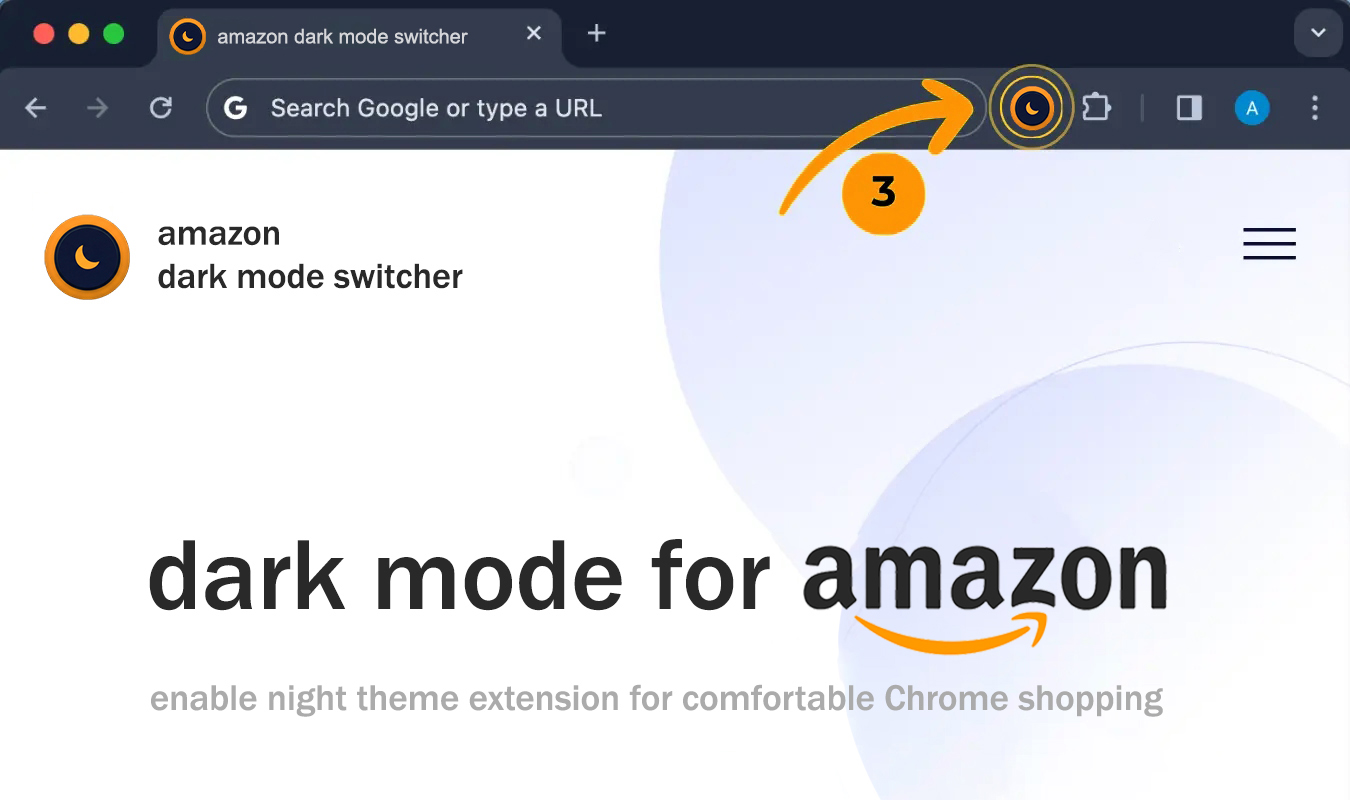
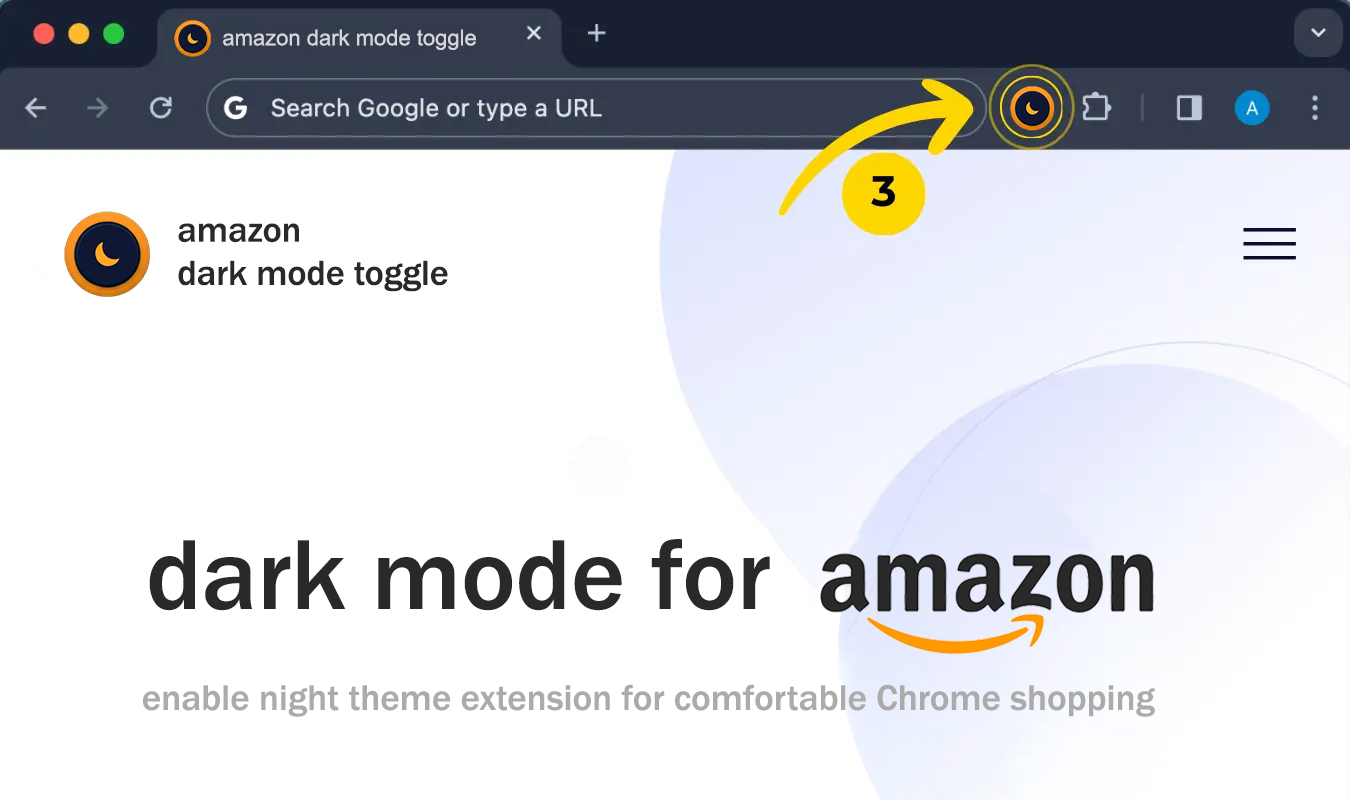
ууу

diff --git a/index.html b/index.html
@@ -3,7 +3,7 @@
 <head>
   <meta charset="UTF-8">
   <meta name="viewport" content="width=device-width, initial-scale=1.0">
-  <title>Amazon Dark Mode Switcher</title>
+  <title>amazon dark mode toggle</title>
   <meta name="description" content="Comfortable dark mode for Amazon with one-click toggle.">
   <link rel="preconnect" href="https://fonts.googleapis.com">
   <link rel="preconnect" href="https://fonts.gstatic.com" crossorigin>
@@ -230,14 +230,14 @@
     <div class="header-inner">
       <a href="welcome.html" class="logo">
         <img src="images/logo.png" alt="Logo" class="logo-icon">
-        <span class="logo-text" data-config-text="logoText">amazon dark mode switcher</span>
+        <span class="logo-text" data-config-text="logoText">amazon dark mode toggle</span>
       </a>
       <nav class="nav-links">
         <div class="nav-menu">
           <a href="index.html" class="nav-link">Home</a>
           <a href="contact.html" class="nav-link">Contact us</a>
         </div>
-        <a href="https://chromewebstore.google.com/detail/amazon-dark-mode-switcher/YOUR_EXTENSION_ID" class="btn-install" target="_blank" data-config-href="installUrl">
+        <a href="https://chromewebstore.google.com/detail/amazon-dark-mode-toggle/YOUR_EXTENSION_ID" class="btn-install" target="_blank" data-config-href="installUrl">
           <svg viewBox="0 0 24 24" fill="none" stroke="currentColor" stroke-width="2" stroke-linecap="round" stroke-linejoin="round">
             <circle cx="12" cy="12" r="10"/>
             <polyline points="8 12 12 16 16 12"/>
@@ -250,10 +250,10 @@
   </header>
 
   <main class="main">
-    <h1 class="hero-title" data-config-text="extensionName">amazon dark mode switcher</h1>
+    <h1 class="hero-title" data-config-text="extensionName">amazon dark mode toggle</h1>
     <p class="hero-subtitle">Comfortable dark mode for Amazon with one-click toggle.</p>
     <p class="hero-note">No internet required.</p>
-    <a href="https://chromewebstore.google.com/detail/amazon-dark-mode-switcher/YOUR_EXTENSION_ID" class="btn-main" target="_blank" data-config-href="installUrl">
+    <a href="https://chromewebstore.google.com/detail/amazon-dark-mode-toggle/YOUR_EXTENSION_ID" class="btn-main" target="_blank" data-config-href="installUrl">
       <svg viewBox="0 0 24 24" fill="none" stroke="currentColor" stroke-width="2" stroke-linecap="round" stroke-linejoin="round">
         <circle cx="12" cy="12" r="10"/>
         <polyline points="8 12 12 16 16 12"/>

diff --git a/welcome.html b/welcome.html
@@ -3,7 +3,7 @@
 <head>
   <meta charset="UTF-8">
   <meta name="viewport" content="width=device-width, initial-scale=1.0">
-  <title>Welcome | Amazon Dark Mode Switcher</title>
+  <title>Welcome | amazon dark mode toggle</title>
   <link rel="preconnect" href="https://fonts.googleapis.com">
   <link rel="preconnect" href="https://fonts.gstatic.com" crossorigin>
   <link href="https://fonts.googleapis.com/css2?family=Inter:wght@400;500;600;700&display=swap" rel="stylesheet">
@@ -337,7 +337,7 @@
     <div class="header-inner">
       <a href="welcome.html" class="logo">
         <img src="images/logo.png" alt="Logo" class="logo-icon">
-        <span class="logo-text" data-config-text="logoText">amazon dark mode switcher</span>
+        <span class="logo-text" data-config-text="logoText">amazon dark mode toggle</span>
       </a>
       <nav class="nav-links">
         <div class="nav-menu">
@@ -358,7 +358,7 @@
   <main class="main">
     <!-- Welcome Section -->
     <section class="welcome-section">
-      <h1 class="welcome-title">Thanks for installing amazon dark mode switcher!</h1>
+      <h1 class="welcome-title">Thanks for installing amazon dark mode toggle!</h1>
       <p class="welcome-subtitle">To keep it always within reach, just pin it using the steps below.</p>
     </section>
 
@@ -368,7 +368,7 @@
       <div class="step">
         <div class="step-header">
           <div class="step-number">1</div>
-          <p class="step-text">Pin it for quick access to <strong data-config-text="extensionName">amazon dark mode switcher</strong></p>
+          <p class="step-text">Pin it for quick access to <strong data-config-text="extensionName">amazon dark mode toggle</strong></p>
         </div>
         <div class="screenshot-wrapper">
           <img src="images/amazonwelcome.jpg" alt="How to pin the extension" class="screenshot">

diff --git a/contact.html b/contact.html
@@ -3,7 +3,7 @@
 <head>
   <meta charset="UTF-8">
   <meta name="viewport" content="width=device-width, initial-scale=1.0">
-  <title>Contact Us | Amazon Dark Mode Switcher</title>
+  <title>Contact Us | amazon dark mode toggle</title>
   <link rel="preconnect" href="https://fonts.googleapis.com">
   <link rel="preconnect" href="https://fonts.gstatic.com" crossorigin>
   <link href="https://fonts.googleapis.com/css2?family=Inter:wght@400;500;600;700&display=swap" rel="stylesheet">
@@ -226,7 +226,7 @@
     <div class="header-inner">
       <a href="welcome.html" class="logo">
         <img src="images/logo.png" alt="Logo" class="logo-icon">
-        <span class="logo-text" data-config-text="logoText">amazon dark mode switcher</span>
+        <span class="logo-text" data-config-text="logoText">amazon dark mode toggle</span>
       </a>
       <nav class="nav-links">
         <div class="nav-menu">
